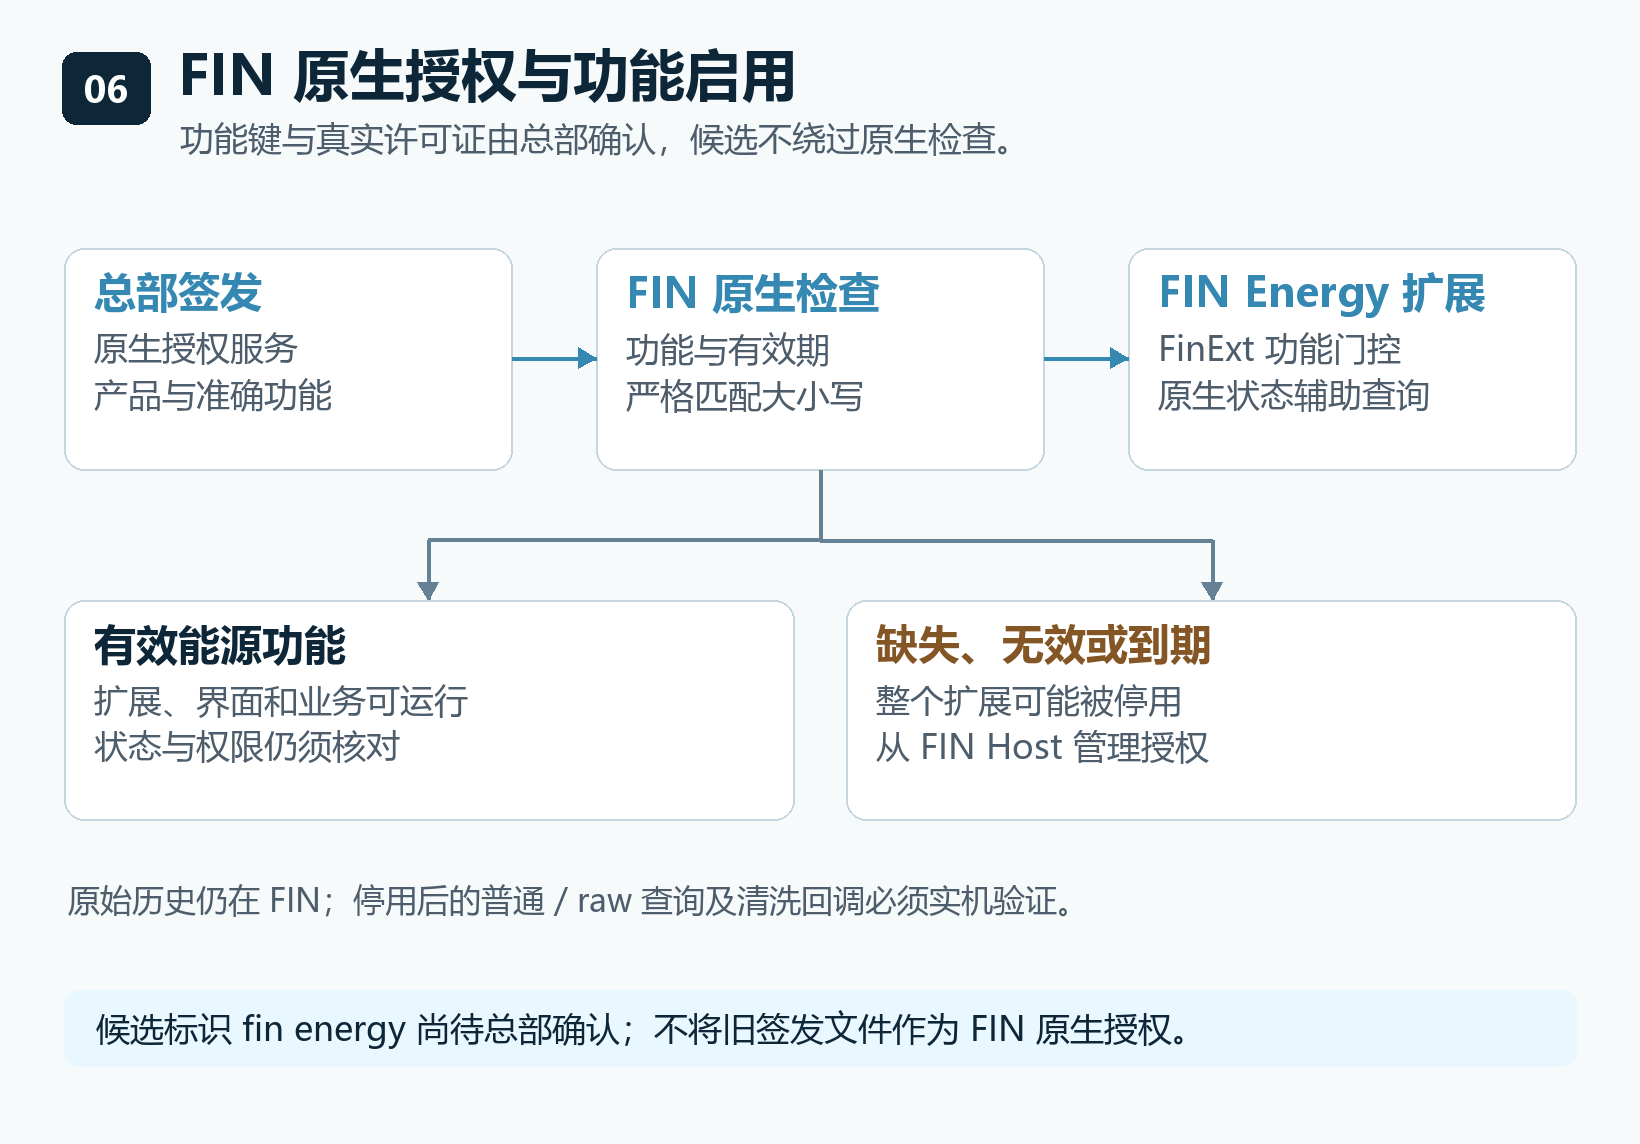
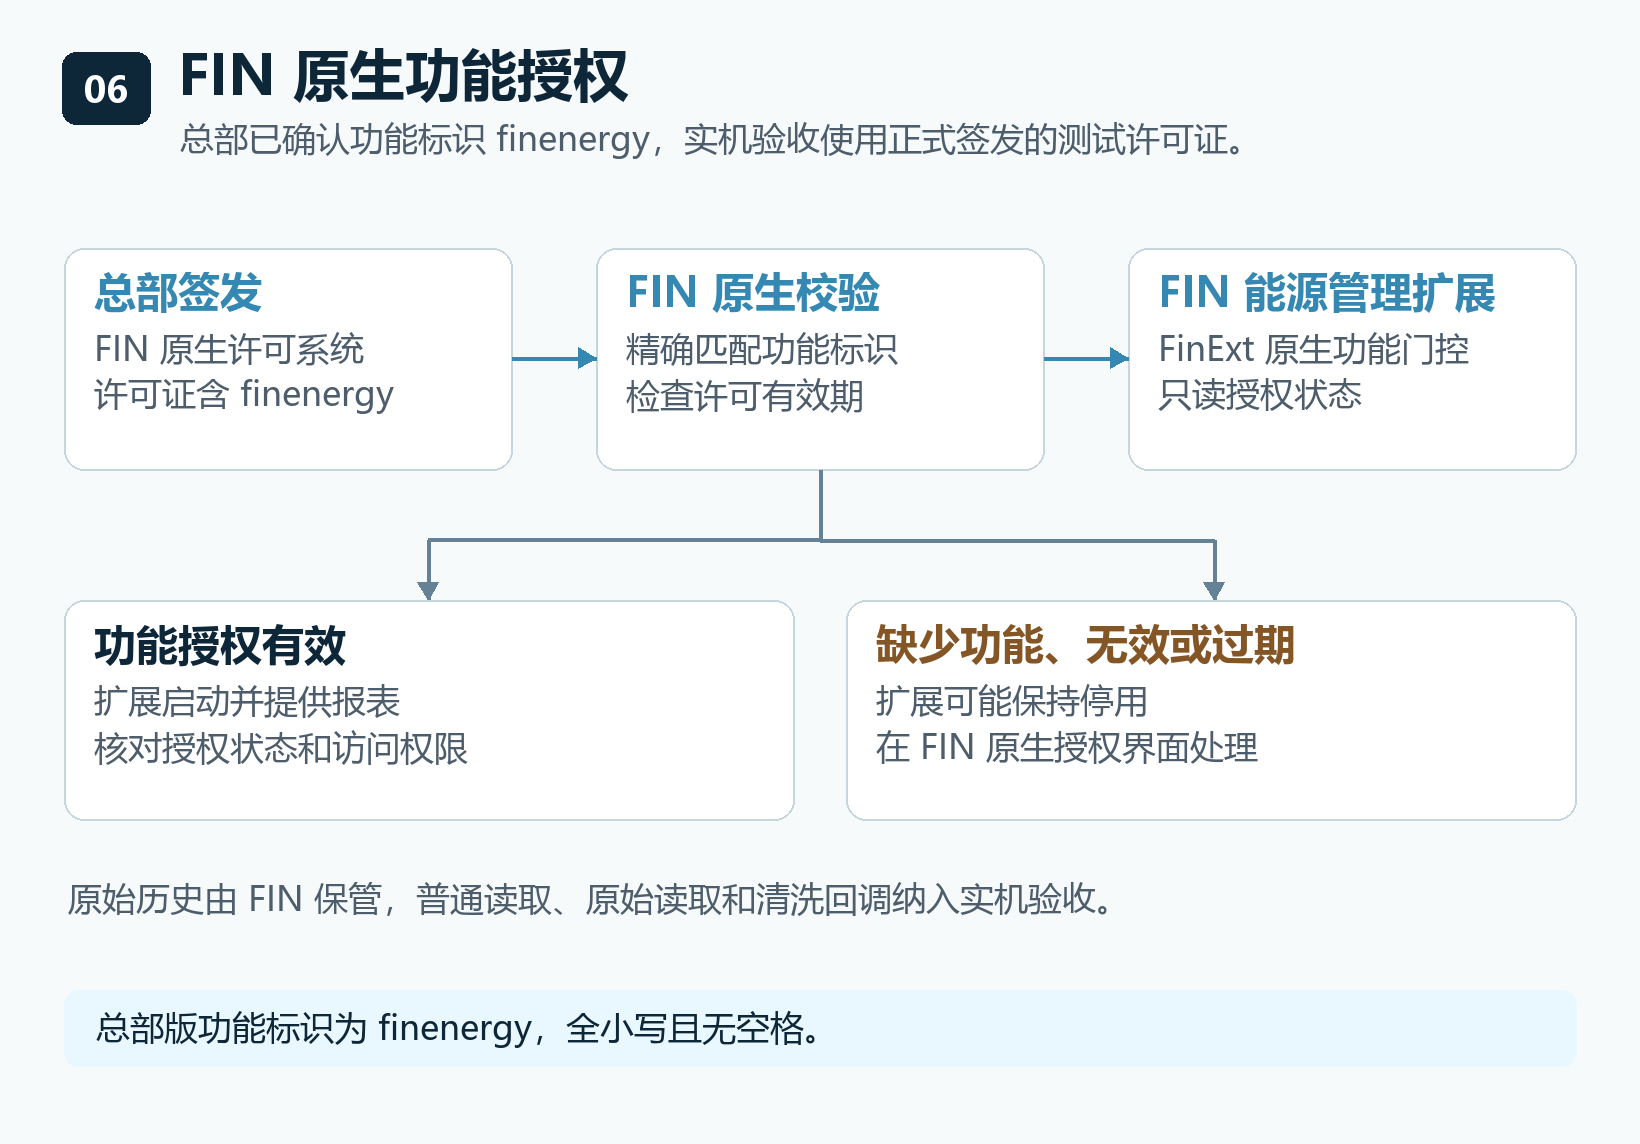
Synchronize licensing diagrams and HQ candidate verification

diff --git a/docs/finenergy-architecture-assets/en/render_figures_en.py b/docs/finenergy-architecture-assets/en/render_figures_en.py
@@ -147,12 +147,37 @@ def energy_flow(regular, bold):
     d.save("05-energy-flow.png")
 
 
+def native_licensing(regular, bold):
+    d = EnglishDiagram(
+        572, "06", "Native FIN Feature Activation",
+        "HQ confirmed finenergy. Native runtime acceptance needs a genuine test license.", regular, bold
+    )
+    d.card(32, 124, 224, 111, "HQ Licensing",
+           ("Native licensing service", "Issues a finenergy license"), BLUE)
+    d.card(298, 124, 224, 111, "FIN Native Check",
+           ("Exact feature match", "License validity"), BLUE)
+    d.card(564, 124, 224, 111, "FIN Energy Extension",
+           ("FinExt feature gate", "Read-only native status"), BLUE)
+    d.arrow((256, 179), (298, 179), color=BLUE)
+    d.arrow((522, 179), (564, 179), color=BLUE)
+    d.arrow((410, 235), (410, 270), (214, 270), (214, 300))
+    d.arrow((410, 270), (607, 270), (607, 300))
+    d.card(32, 300, 365, 110, "Valid Feature",
+           ("The extension starts", "Verify license state and access"))
+    d.card(423, 300, 365, 110, "Missing, Invalid, or Expired",
+           ("The extension can be inactive", "Use native FIN Host licensing"), AMBER)
+    d.label(34, 441, "FIN retains raw history. Runtime acceptance checks raw reads, normal reads, and cleaning.",
+            17, MUTED, width=752)
+    d.banner(495, "The exact feature ID is finenergy, in lowercase with no spaces.")
+    d.save("06-native-licensing.png")
+
+
 def main():
     parser = ArgumentParser(description=__doc__)
     parser.add_argument("--font", type=Path, default=Path("C:/Windows/Fonts/arial.ttf"))
     parser.add_argument("--bold-font", type=Path, default=Path("C:/Windows/Fonts/arialbd.ttf"))
     args = parser.parse_args()
-    for render in (overview, device_views, query_pipeline, cockpit_snapshot, energy_flow):
+    for render in (overview, device_views, query_pipeline, cockpit_snapshot, energy_flow, native_licensing):
         render(args.font, args.bold_font)
 
 

diff --git a/docs/finenergy-architecture-assets/render_figures.py b/docs/finenergy-architecture-assets/render_figures.py
@@ -204,12 +204,33 @@ def energy_flow(regular, bold):
     d.save("05-energy-flow.png")
 
 
+def native_licensing(regular, bold):
+    d = Diagram(572, "06", "FIN 原生功能授权",
+                "总部已确认功能标识 finenergy，实机验收使用正式签发的测试许可证。", regular, bold)
+    d.card(32, 124, 224, 111, "总部签发",
+           ("FIN 原生许可系统", "许可证含 finenergy"), BLUE)
+    d.card(298, 124, 224, 111, "FIN 原生校验",
+           ("精确匹配功能标识", "检查许可有效期"), BLUE)
+    d.card(564, 124, 224, 111, "FIN 能源管理扩展",
+           ("FinExt 原生功能门控", "只读授权状态"), BLUE)
+    d.arrow((256, 179), (298, 179), color=BLUE)
+    d.arrow((522, 179), (564, 179), color=BLUE)
+    d.arrow((410, 235), (410, 270), (214, 270), (214, 300))
+    d.arrow((410, 270), (607, 270), (607, 300))
+    d.card(32, 300, 365, 110, "功能授权有效", ("扩展启动并提供报表", "核对授权状态和访问权限"))
+    d.card(423, 300, 365, 110, "缺少功能、无效或过期",
+           ("扩展可能保持停用", "在 FIN 原生授权界面处理"), AMBER)
+    d.label(34, 441, "原始历史由 FIN 保管，普通读取、原始读取和清洗回调纳入实机验收。", 17, MUTED, width=752)
+    d.banner(495, "总部版功能标识为 finenergy，全小写且无空格。")
+    d.save("06-native-licensing.png")
+
+
 def main():
     parser = ArgumentParser(description=__doc__)
     parser.add_argument("--font", type=Path, default=Path("C:/Windows/Fonts/msyh.ttc"))
     parser.add_argument("--bold-font", type=Path, default=Path("C:/Windows/Fonts/msyhbd.ttc"))
     args = parser.parse_args()
-    for render in (overview, device_views, query_pipeline, cockpit_snapshot, energy_flow):
+    for render in (overview, device_views, query_pipeline, cockpit_snapshot, energy_flow, native_licensing):
         render(args.font, args.bold_font)
 
 

diff --git a/docs/CURRENT.md b/docs/CURRENT.md
@@ -14,6 +14,6 @@
 
 Brochure、Onepage、图文操作手册、逐项驾驶舱需求原型及视频的成品和可编辑文件，按交付目录下对应分类查阅。中文品牌为 FIN 能源管理；英文为 FIN Energy。所有演示数据、历史实拍和保存响应回放均有来源说明。
 
-The candidate is not a customer deployment. HQ must confirm the exact native feature and provide a genuine test license. The Belgian customer's full FIN build and OS must be accepted before platform compatibility is claimed. The ten-meter free allowance and training grant remain proposals, not enabled features.
+The 0.16.12 HQ candidate uses the confirmed FIN feature ID `finenergy`. HQ still needs to provide a genuine test license for native runtime acceptance. The Belgian customer's full FIN build and OS must be verified before claiming compatibility. The ten-meter allowance and training grant are available in the China edition.
 
 候选交付记录：[中英文交接与验收边界](releases/0.16.0-candidate.md)。现行PDF共18份/401页，另附DOCX、PPTX、两支180秒视频、Pod与源码ZIP。完整浏览入口为交付目录的 START_HERE_ZH.html / START_HERE_EN.html。

diff --git a/README.md b/README.md
@@ -2,7 +2,7 @@
 
 FIN Energy is a native FIN Framework Pod for building energy analysis in new projects and retrofits. 中文品牌为 **FIN 能源管理**，英文为 **FIN Energy**。它复用 FIN 的设备、主点历史、身份和报警服务，提供经营驾驶舱、分析工作台、数据清洗、费用、面积强度及事件核查。
 
-当前为 **FIN 能源管理双发行**，中国版采用自有授权，总部版采用 FIN 原生授权。`developer` 是唯一开发与集成基线，`main` 用于稳定发布。总部原生能源功能标识与测试许可证、比利时客户完整 FIN 构建号及操作系统尚待确认；候选构建、受控界面验证与实际 FIN 发布分别记录。运行状态以各发行的验收记录为准。
+当前为 **FIN 能源管理双发行**，中国版采用自有授权，总部版采用 FIN 原生授权。`developer` 是唯一开发与集成基线，`main` 用于稳定发布。总部已确认原生功能标识 `finenergy`。FIN 测试许可证及比利时客户完整 FIN 构建号和操作系统尚待提供。候选构建、受控界面验证与实际 FIN 发布分别记录。
 
 ## 现行文档 Current documentation
 

diff --git a/docs/team/board.md b/docs/team/board.md
@@ -2,6 +2,11 @@
 
 初始盘点：2026-10-25 16:28，Asia/Shanghai。此处是本地排期主记录，非实时监控；之后在派工、交付或查询进度时刷新。经理维护状态，执行者提供证据。启用远端 Issue 看板后，停止双份维护。
 
+## 总部版原生功能标识 · 2026-11-24 · 0.16.12 候选
+
[1 lines of base64/hex data omitted]
+- 已核对编译后的原生功能标识。10 个 Fantom 测试方法、7 项前端单元测试和 3 项受控浏览器用例通过。有效授权的实机激活待 J2 签发包含 `finenergy` 的 FIN 测试许可证。
+
 ## 完整查询 11 秒 · 2026-11-23 · 0.16.10 候选
 
 - 主聊天负责集成、构建和隔离 FIN 验收。完整报表已成为工作台默认请求。查询记录准备、历史、清洗、计算、编码和浏览器展示耗时。超过 11 秒显示等待状态和取消入口，继续等待可返回完整结果，原操作仍记录为超标。

diff --git a/specs/fin-energy-hq-20261120/plan.md b/specs/fin-energy-hq-20261120/plan.md
@@ -9,3 +9,5 @@ Approved scope is the user's FIN Energy rename and J2 brand integration plan, in
 - Refresh brochure, Onepage, manuals, architecture, requirements, deployment/system guidance and two three-minute neural-voice films from the updated UI. Preserve HQ template assets and attribution.
 
 Pending external inputs are HQ's exact feature identifier, native test license and Belgium customer's FIN build/OS. These gate native licensed runtime acceptance and customer release. Other work continues independently.
+
+Update on 2026-11-24. HQ confirmed `finenergy` as the exact feature ID for the 0.16.12 HQ candidate. The genuine test license and customer platform details are still pending.
